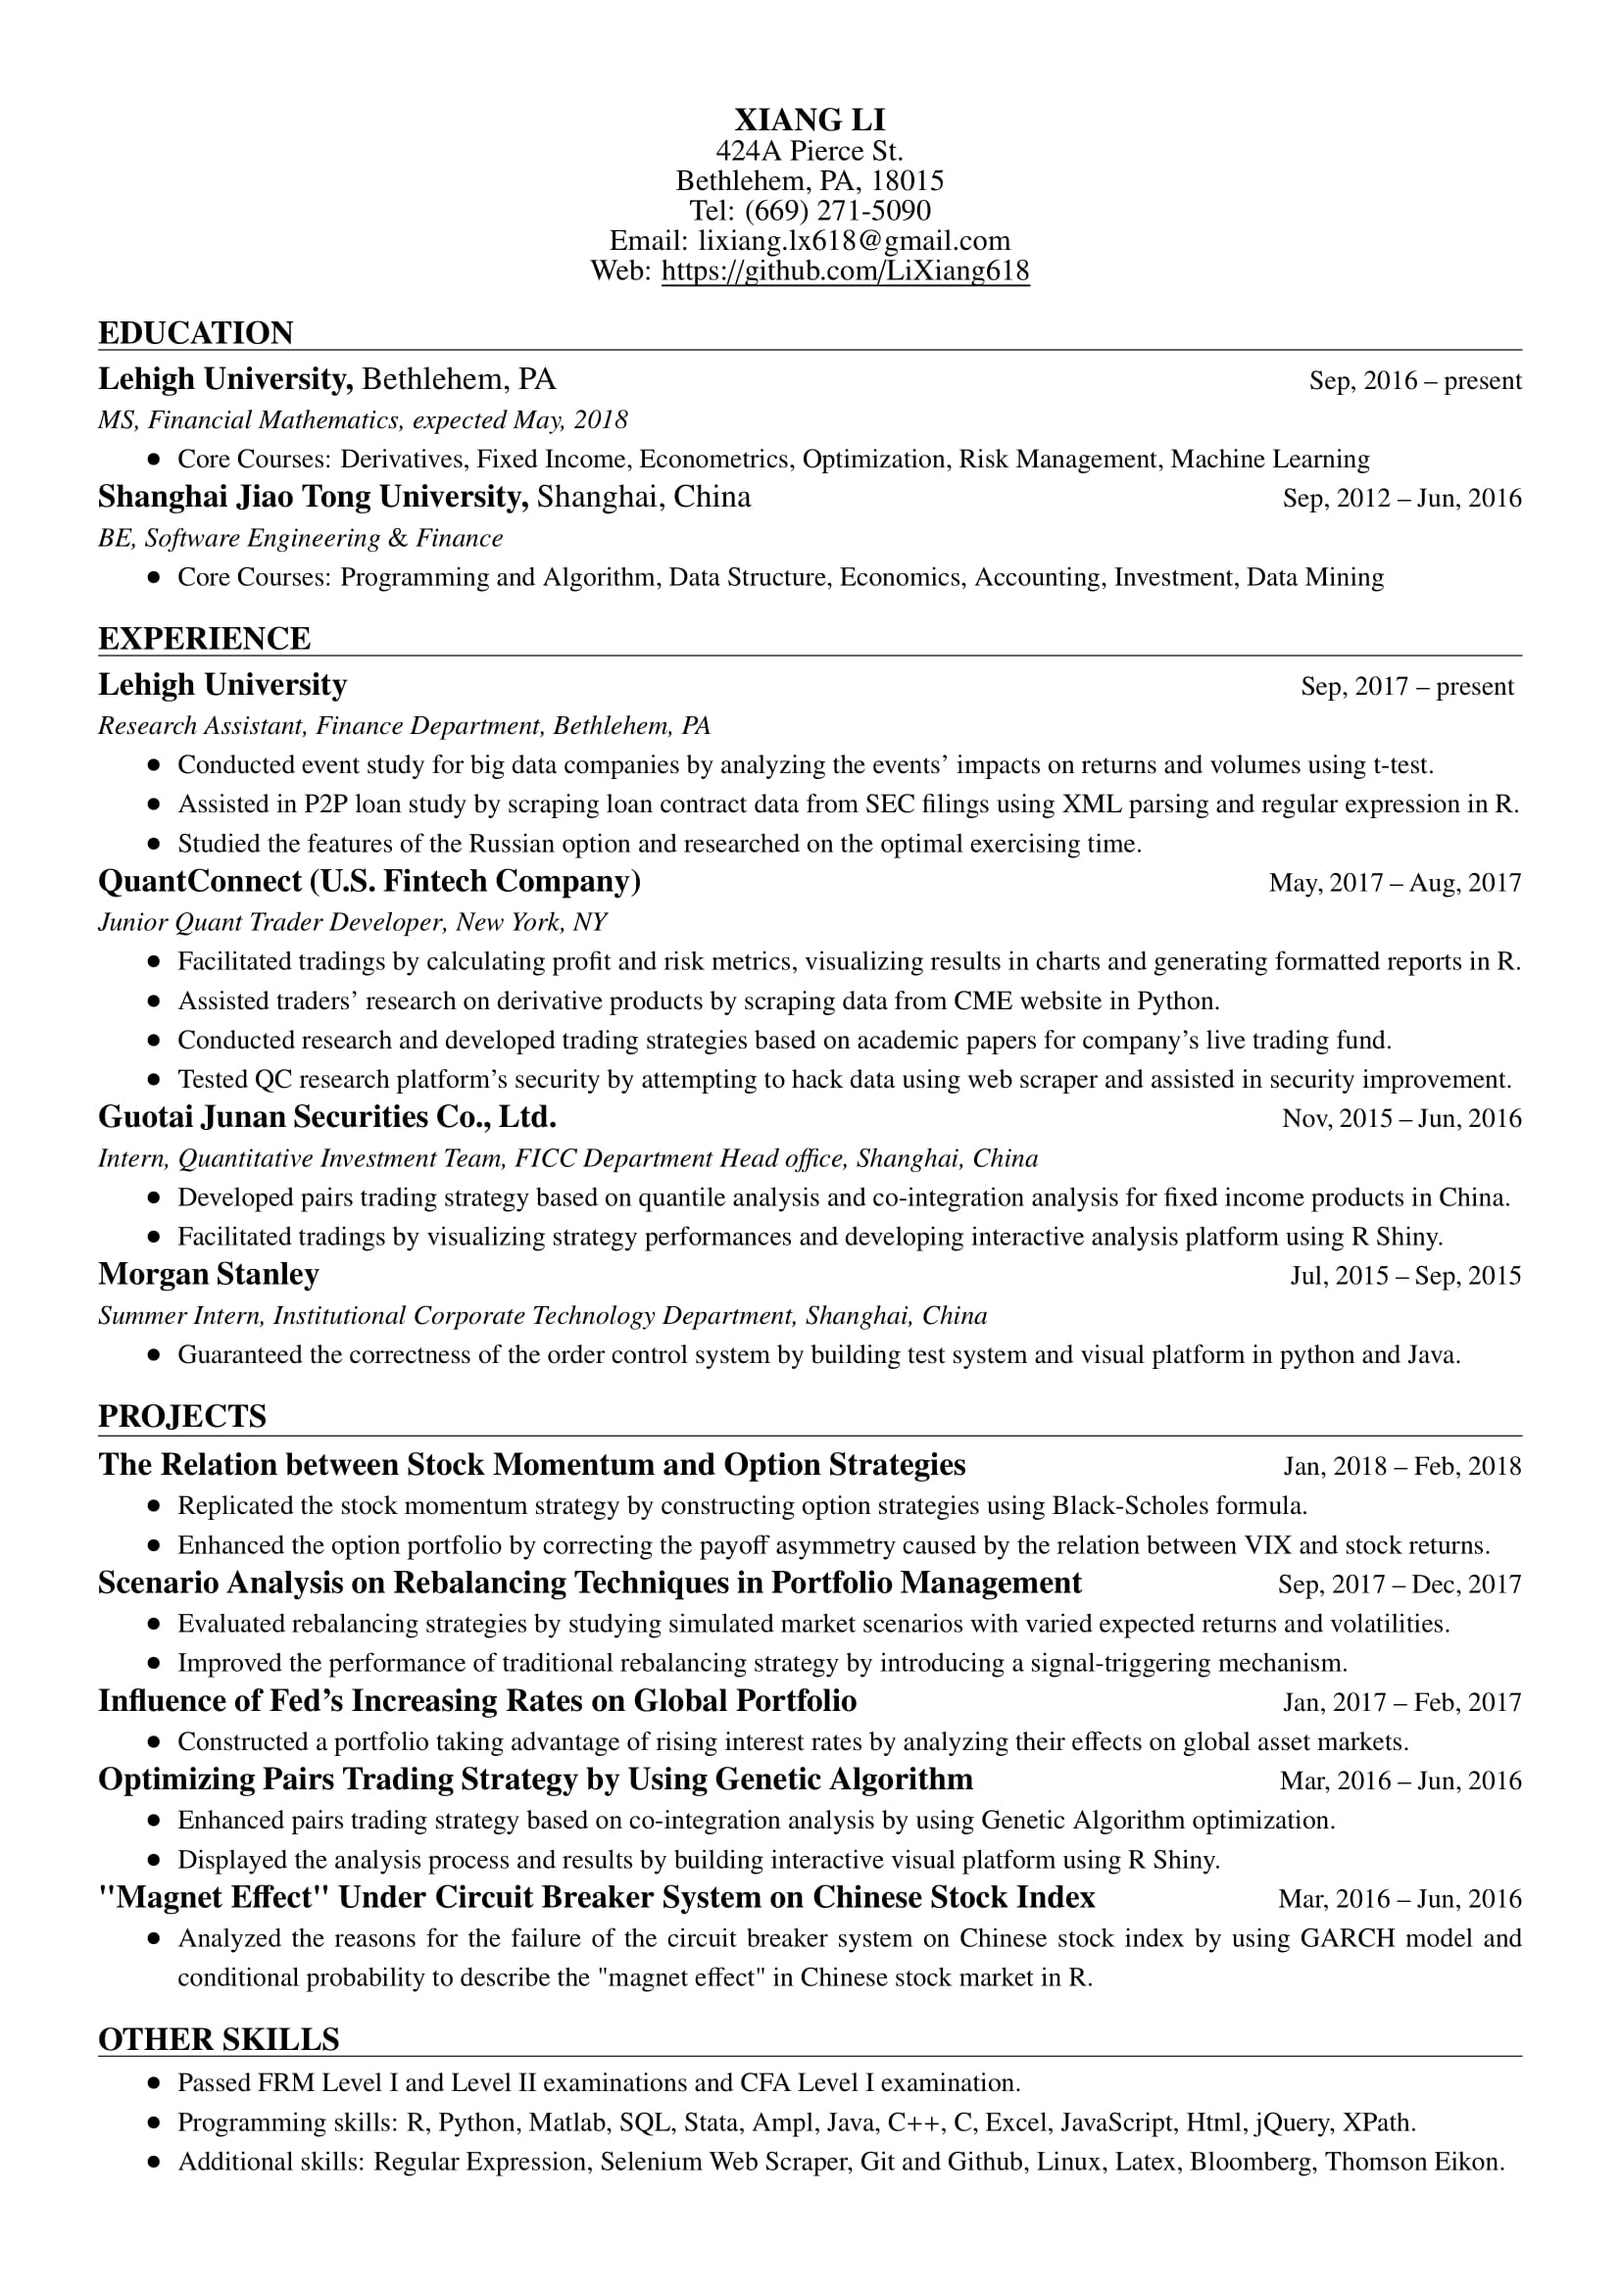
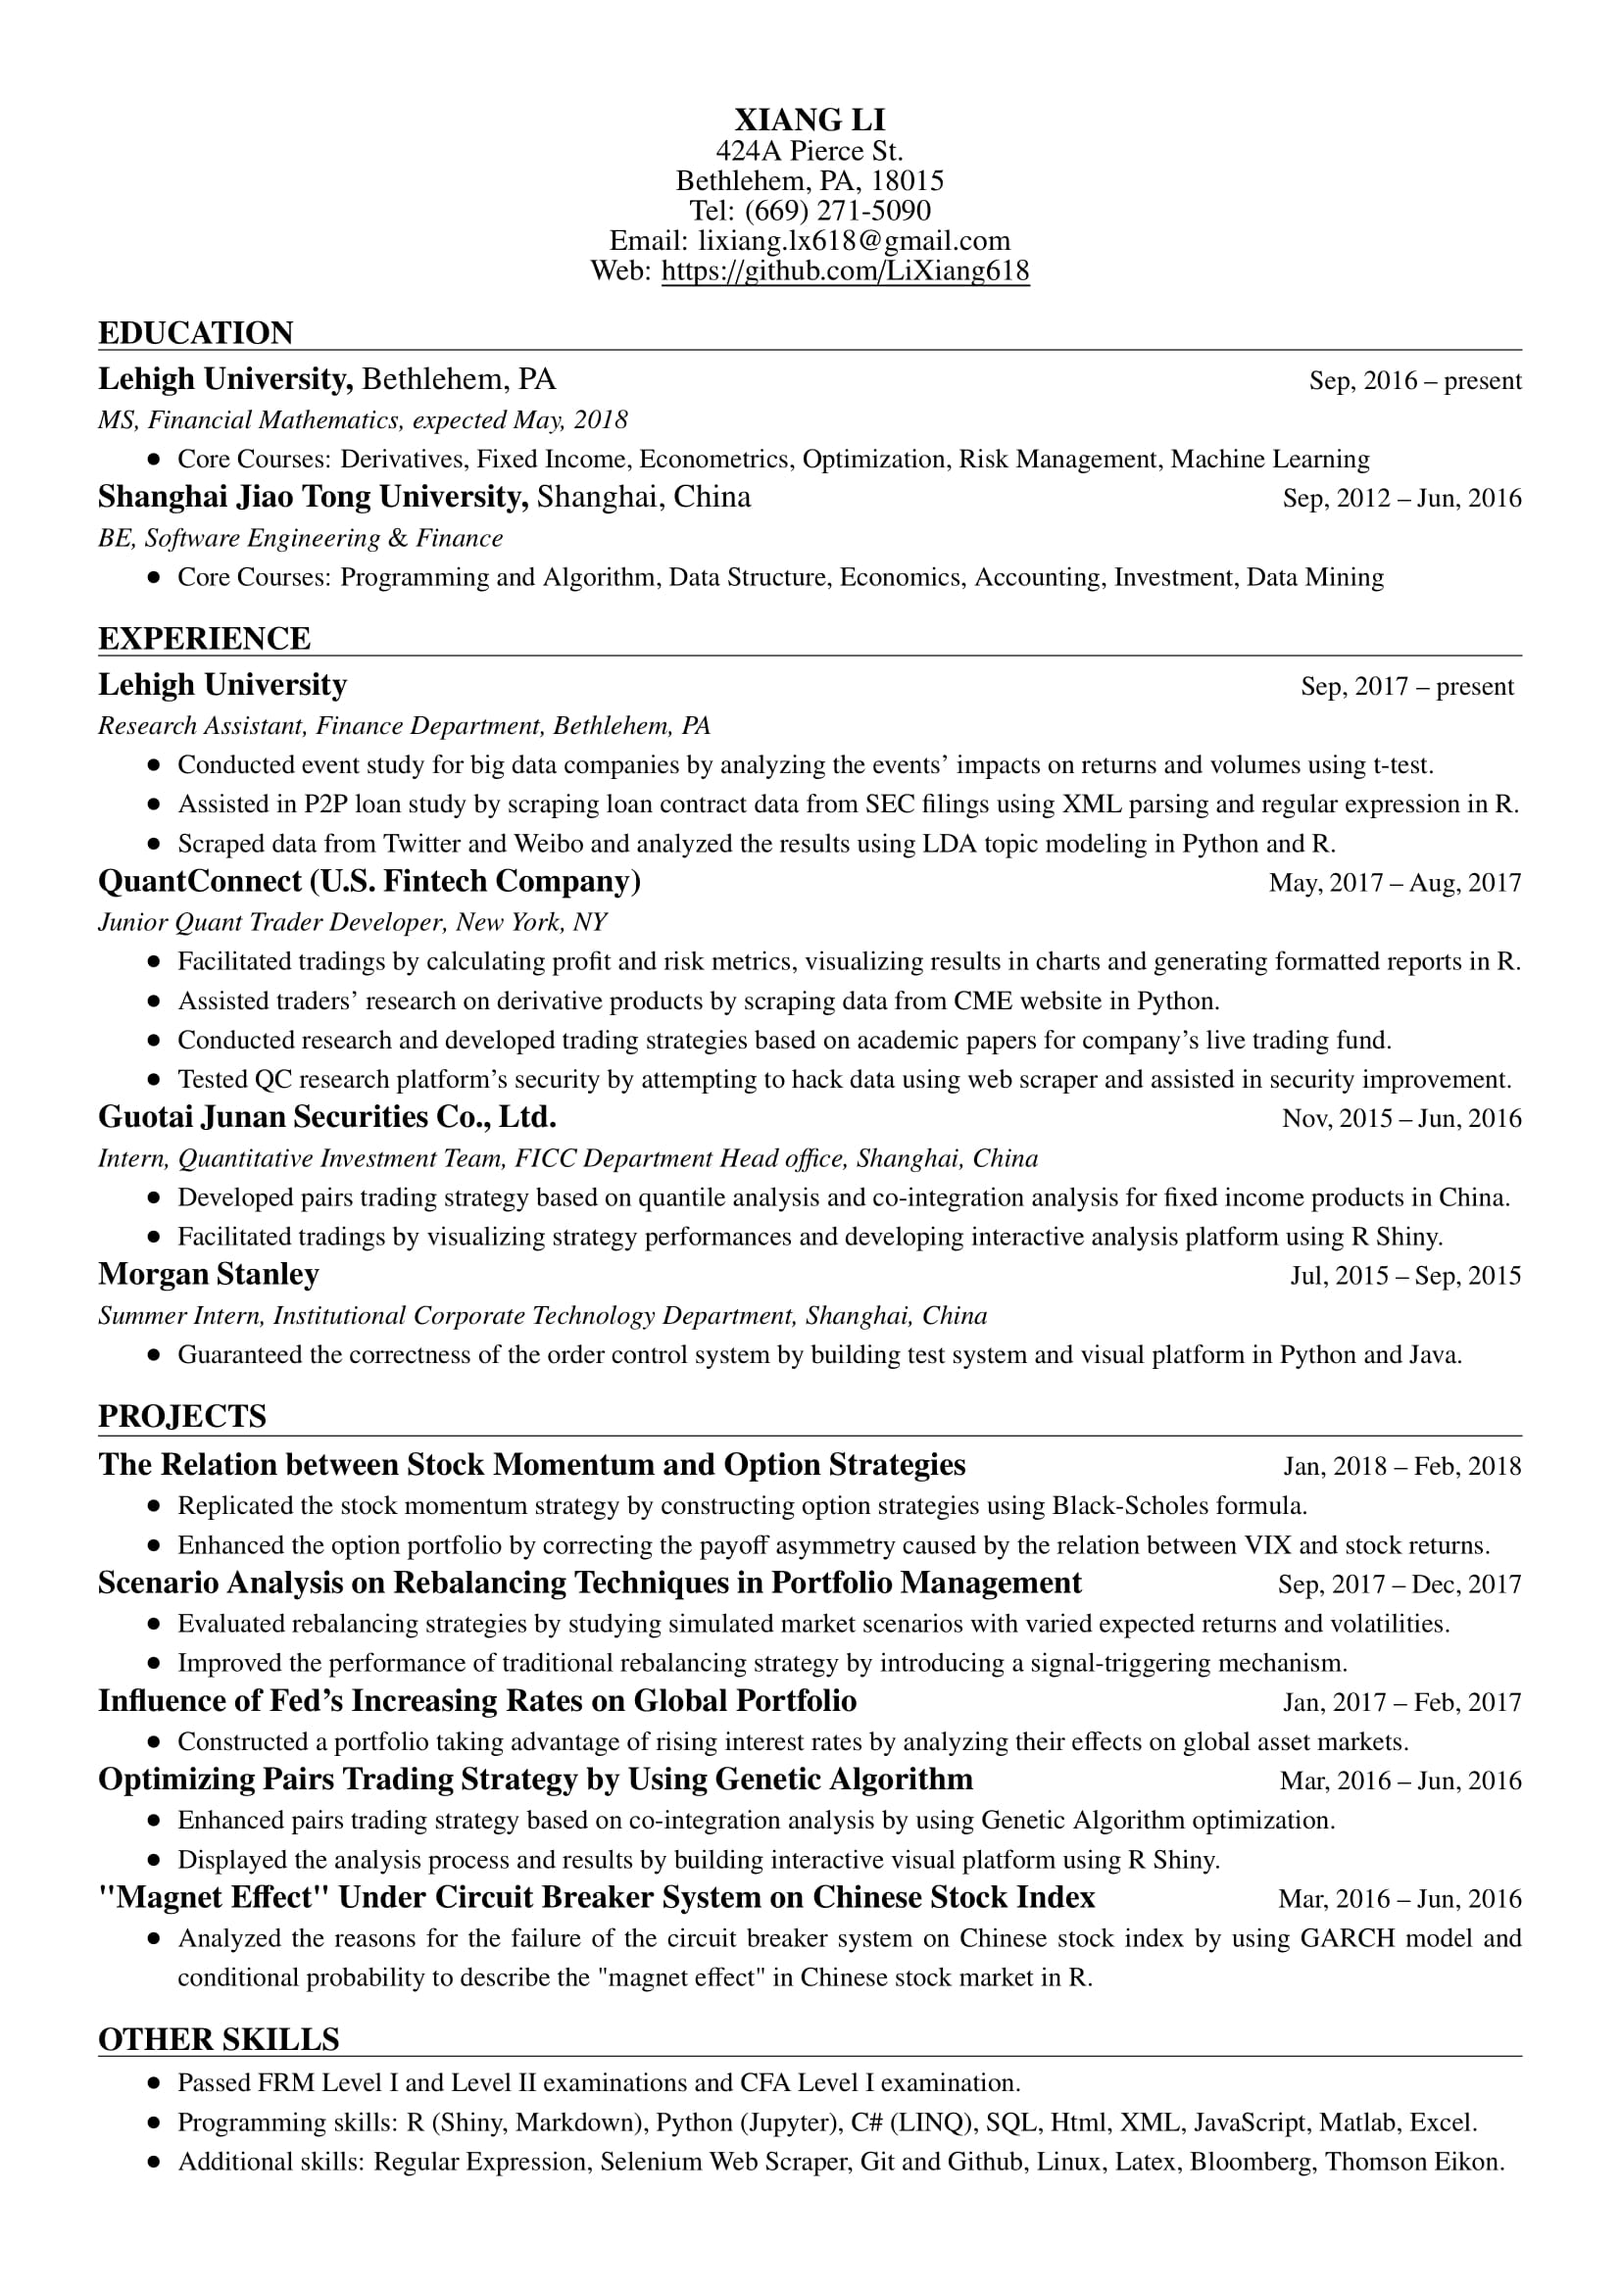
update

Changed region(s): [[0.2775, 0.9051, 0.8942, 0.9363], [0.1233, 0.3433, 0.7092, 0.3745], [0.74, 0.3433, 0.7709, 0.3745]]

diff --git a/LiXiang.tex b/LiXiang.tex
@@ -173,7 +173,7 @@ urlcolor=cyan,
 	\noindent 
 	\item {\fontsize{10pt}{10pt}\selectfont Assisted in P2P loan study by scraping loan contract data from SEC filings using XML parsing and regular expression in R.} \par
 	\noindent 
-	\item {\fontsize{10pt}{10pt}\selectfont Studied the features of the Russian option and researched on the optimal exercising time.} \par
+	\item {\fontsize{10pt}{10pt}\selectfont Scraped data from Twitter and Weibo and analyzed the results using LDA topic modeling in Python and R.} \par
 \end{itemize}
 
 \noindent 
@@ -207,7 +207,7 @@ urlcolor=cyan,
 {\fontsize{10pt}{10pt}\selectfont \textit{Summer Intern, Institutional Corporate Technology Department, Shanghai, China}} \par
 \noindent 
 \begin{itemize}[noitemsep,topsep=0pt]
-\item {\fontsize{10pt}{10pt}\selectfont Guaranteed the correctness of the order control system by building test system and visual platform in python and Java.} \par
+\item {\fontsize{10pt}{10pt}\selectfont Guaranteed the correctness of the order control system by building test system and visual platform in Python and Java.} \par
 \end{itemize}
  \par
 \vspace{9pt}
@@ -275,7 +275,7 @@ urlcolor=cyan,
 \begin{itemize}[noitemsep,topsep=0pt]
 \item {\fontsize{10pt}{10pt}\selectfont Passed FRM Level I and Level II examinations and CFA Level I examination.} \par
 \noindent 
-\item {\fontsize{10pt}{10pt}\selectfont Programming skills: R, Python, Matlab, SQL, Stata, Ampl, Java, C++, C, Excel, JavaScript, Html, jQuery, XPath. } \par
+\item {\fontsize{10pt}{10pt}\selectfont Programming skills: R (Shiny, Markdown), Python (Jupyter), C\# (LINQ), SQL, Html, XML, JavaScript, Matlab, Excel. } \par
 \noindent 
 \item {\fontsize{10pt}{10pt}\selectfont Additional skills: Regular Expression, Selenium Web Scraper, Git and Github, Linux, Latex, Bloomberg, Thomson Eikon.}\end{itemize}
  \par
